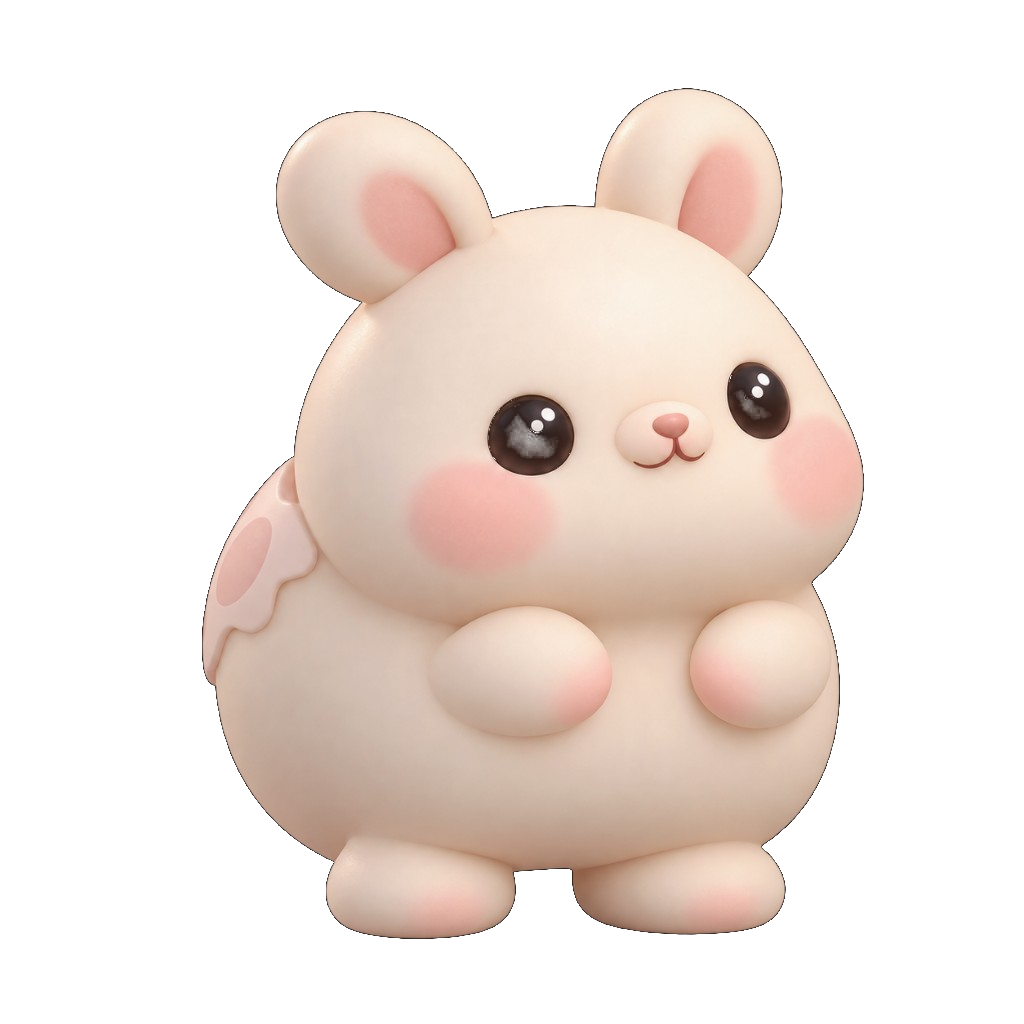
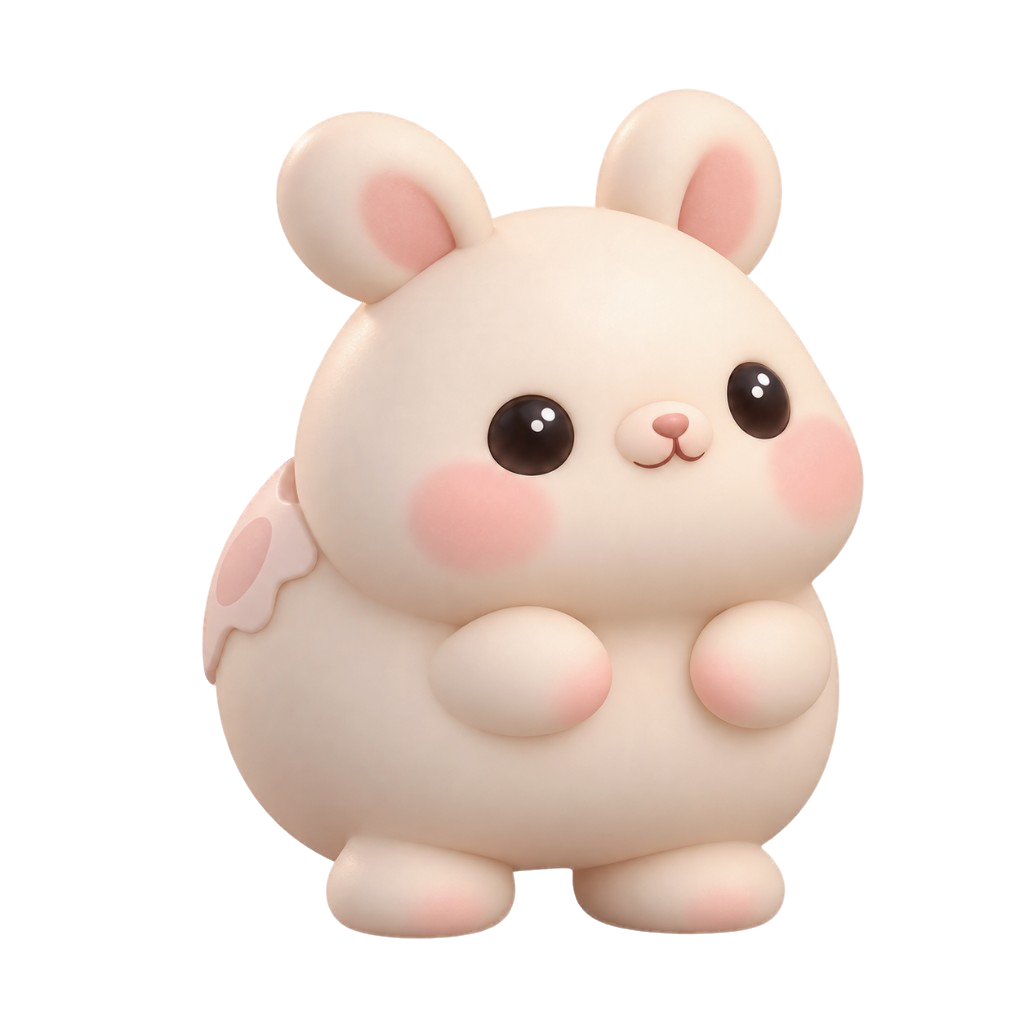
fix(pet): clean matte edges and align approved stage artwork

Changed region(s): [[0.4688, 0.4062, 0.5312, 0.4688], [0.7188, 0.375, 0.75, 0.4062]]

diff --git a/src/components/pet/pet.module.css b/src/components/pet/pet.module.css
@@ -109,6 +109,18 @@
   filter: drop-shadow(0 14px 22px rgb(45 27 66 / 18%));
 }
 
+/* Align approved PNG silhouettes to Hatchling's height, centre and feet.
+ * Keep the source canvases intact; custom art keeps its supplied framing.
+ * Measurements and source bounds are recorded in docs/pet-assets.md.
+ */
+.art[data-stage-art="buddy"] {
+  transform: translate(-0.542044%, 0.257739%) scale(0.907168);
+}
+
+.art[data-stage-art="guardian"] {
+  transform: translate(-1.519782%, 1.07018%) scale(0.818664);
+}
+
 .placeholder {
   display: grid;
   max-width: 15rem;
@@ -132,6 +144,13 @@
 
 .celebrating {
   animation: celebration-pulse 900ms ease-in-out infinite alternate;
+}
+
+@media (prefers-reduced-motion: reduce) {
+  .idle,
+  .celebrating {
+    animation: none;
+  }
 }
 
 .celebration {

diff --git a/src/components/pet/PetScene.tsx b/src/components/pet/PetScene.tsx
@@ -49,6 +49,9 @@ export function PetScene({ pet, celebrate }: PetSceneProps) {
           {pet.artSrc ? (
             <Image
               className={styles.art}
+              data-stage-art={
+                pet.artSrc === `/pets/${pet.stage}.png` ? pet.stage : undefined
+              }
               src={pet.artSrc}
               alt={`${pet.displayName}, the ${pet.stage} pet`}
               width={480}

diff --git a/docs/pet-assets.md b/docs/pet-assets.md
@@ -5,25 +5,89 @@ files. Live reads must never fall back to them.
 
 ## Files
 
-| File | Stage | Dimensions | Source | Status |
+| File | Stage | Final dimensions | Recorded source | Processing |
 |---|---|---|---|---|
-| `public/pets/hatchling.png` | Hatchling | 1024×1024 PNG | ChatGPT Image Gen 2.5, 20 Sep 2026 | accepted, black studio background knocked out to alpha |
-| `public/pets/buddy.png` | Buddy | 1024×1024 PNG | ChatGPT Image Gen 2.5, 20 Sep 2026 | accepted, black studio background knocked out to alpha |
-| `public/pets/guardian.png` | Guardian | 1024×1024 PNG | ChatGPT Image Gen 2.5, 20 Sep 2026 | accepted, black studio background knocked out to alpha |
+| `public/pets/hatchling.png` | Hatchling | 1024×1024 RGBA PNG | ChatGPT Image Gen 2.5, 20 Sep 2026, per the original project record | Black-matte edge cleanup, 22 Sep 2026 |
+| `public/pets/buddy.png` | Buddy | 1024×1024 RGBA PNG | Same recorded source | Same processing |
+| `public/pets/guardian.png` | Guardian | 1024×1024 RGBA PNG | Same recorded source | Same processing |
 
-Same cream collectible character across stages. Readable differences:
+The original source attribution is inherited from this repository; the original
+ChatGPT session and generation metadata have not been independently verified.
+The same cream collectible character is retained across stages:
 
-- Hatchling: large spotted egg shell, paws together
-- Buddy: shell reduced to a small back cap
-- Guardian: chest leaf mark, arms held out, more body volume
+- Hatchling: large spotted egg shell, paws together.
+- Buddy: shell reduced to a small back cap.
+- Guardian: chest leaf mark, arms held out, more body volume.
 
-## Limitations
+## A3 correction — 22 September 2026
 
-- Original ChatGPT exports used a black studio field, not a native transparent
-  export. Near-black pixels were converted to alpha locally; edge fringing may
-  remain.
-- Stage scale is similar. Distinction is mainly shell coverage, pose, and the
-  Guardian chest mark.
-- No third-party license was purchased. Treat these as team-generated hackathon
-  assets until a release license is chosen.
-- Do not reuse coin marks, tickers, or unverified token branding.
+The originals came from a black studio field knocked out to alpha. This left
+both dark silhouette fringes and translucent dark eye pixels. The correction
+uses deterministic pixel processing; it does not generate or redraw the mascot.
+An image-generation trial was rejected because it changed the subject and is
+not included in the repository.
+
+Processing preserves the 1024×1024 canvas, camera, pose, RGB colors in the
+interior, and original nonzero-alpha bounds. Enclosed knockout holes and
+translucent interior pixels are made opaque again. Within the outer three-pixel
+band, nearby interior RGB supplies a foreground estimate; the observed edge
+RGB/foreground ratio estimates coverage. Edge RGB is decontaminated and alpha
+is adjusted accordingly. The original exterior remains fully transparent.
+This is an estimate from the flattened source, not recovery of a native alpha
+export. Normal subject shading is retained.
+
+| Stage | Original and final alpha bounds (left, top, right, bottom; exclusive) | Edge RGB pixels corrected | Interior alpha pixels restored |
+|---|---|---:|---:|
+| Hatchling | 206, 130, 845, 902 | 5,205 | 3,098 |
+| Buddy | 202, 88, 864, 939 | 6,570 | 2,131 |
+| Guardian | 170, 32, 925, 975 | 7,182 | 3,755 |
+
+The source canvases have different visible subject bounds. `PetScene` applies
+presentation-only transforms to the three known `/pets/<stage>.png` paths.
+They align to Hatchling's 772-pixel visible height, horizontal centre 525.5,
+and foot baseline 902 in source-canvas coordinates. Other artwork paths keep
+their supplied framing. Source files are not repositioned or rescaled.
+
+The pet stylesheet explicitly sets `animation: none` for the idle bob and
+celebration pulse under `prefers-reduced-motion: reduce`.
+
+## Permission and licence position
+
+The project describes these as accepted, team-generated hackathon assets.
+No third-party licence was purchased, and no release licence has been selected
+or established by this work. Acceptance for the project does not establish
+exclusive ownership or clearance of all third-party rights. The generation
+account's applicable terms and any input rights remain for the team to verify.
+No coin marks, tickers, token logos, or additional rights claims are added.
+
+## Verification and remaining limitations
+
+- PNG dimensions, RGBA format, unchanged nonzero-alpha bounds and unchanged
+  interior RGB were checked programmatically after processing.
+- Composites of all three corrected files were visually inspected against
+  white and dark `#221b36` backgrounds. The visible black fringe and eye
+  transparency are improved. These composites are asset checks, not screenshots
+  proving that the app was tested in dark mode.
+- Local `npm ci` and `/dev/pet` baseline startup succeeded with Node 24.19.0
+  and npm 11.19.0. Light-mode browser inspection was performed; full final
+  desktop/390px checks in both OS colour schemes are still pending.
+- An OS-level reduced-motion check has not been completed. Code inspection
+  alone is not evidence of that browser check.
+- The alpha reconstruction is approximate because a native transparent
+  source was not available. Review at other sizes before using the art in
+  higher-resolution promotional materials.
+
+### Automated checks for this A3 commit
+
+With Node 24.19.0 and npm 11.19.0:
+
+- `npm run typecheck` — passed, exit 0.
+- `npm run lint` — passed, exit 0.
+- `npm test` — passed, 9 files / 39 tests.
+- `npm run build` — passed, exit 0, with network access for the configured
+  Google Fonts. The initial sandboxed build could not fetch those fonts.
+
+The preview browser lost access to localhost after the development server was
+restarted to refresh the optimized-image cache. Final browser verification of
+the corrected PNGs and display transforms is therefore pending; the successful
+asset-composite checks above must not be presented as a completed app walkthrough.
